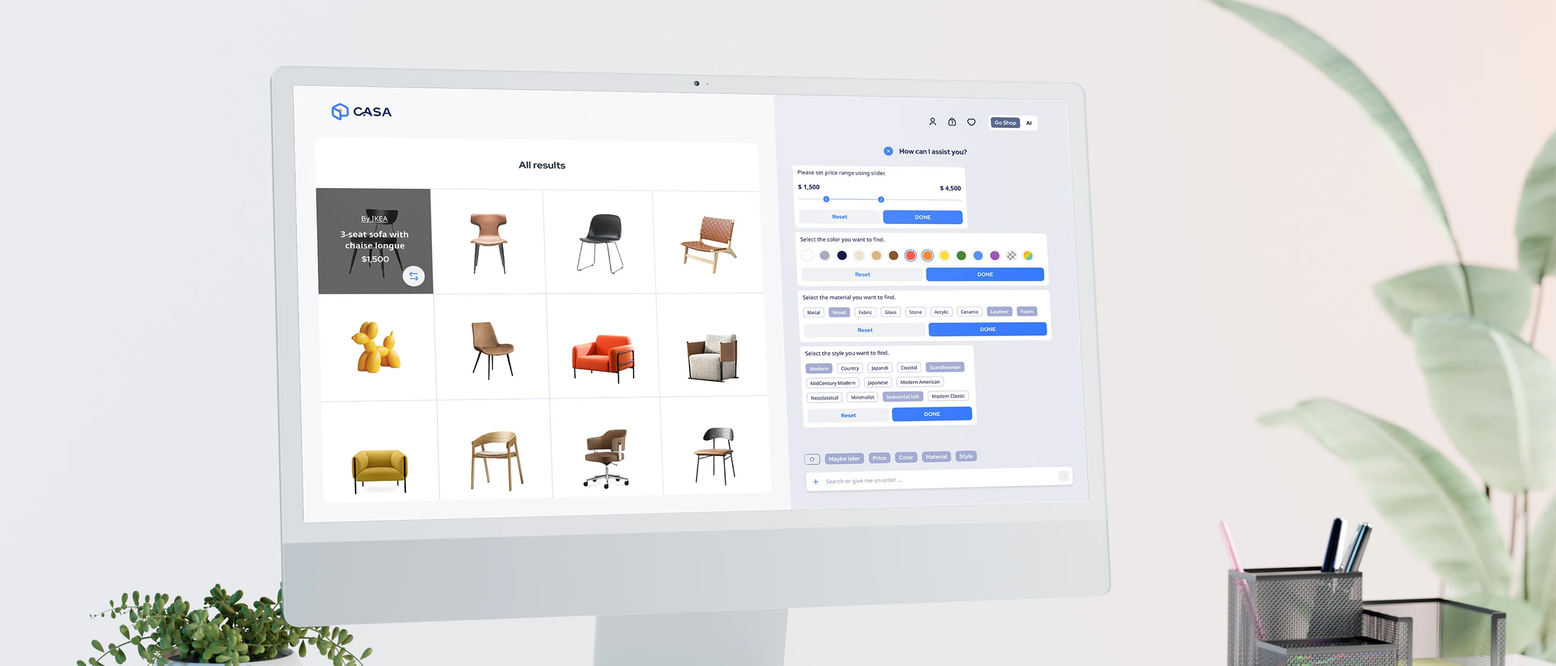
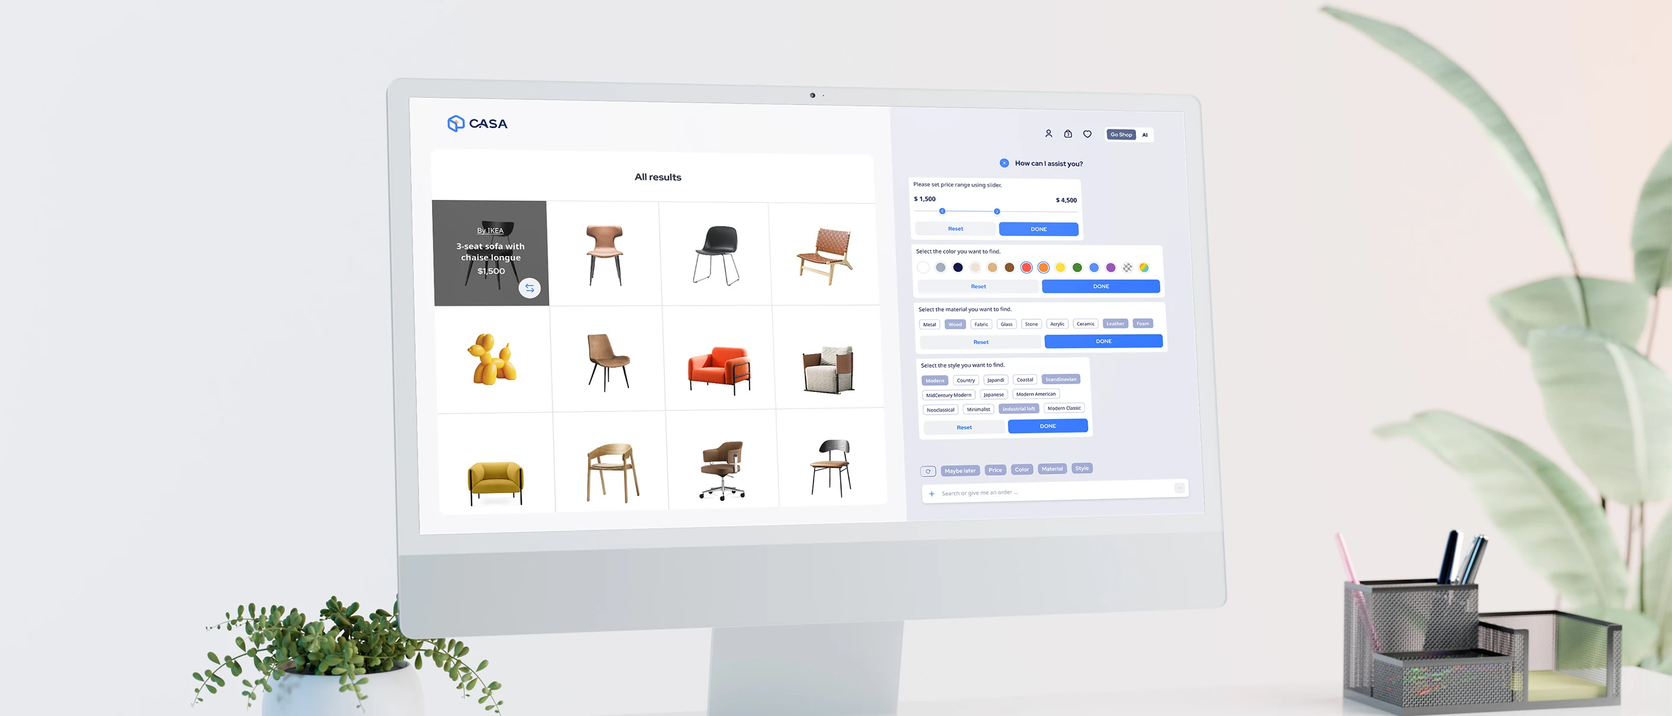
CASA UI/UX: 橫幅放大倍率降到 1.07

diff --git a/zh/project/homee-casa-ui-ux/index.html b/zh/project/homee-casa-ui-ux/index.html
@@ -301,7 +301,7 @@ margin: 0rem !important;
   
     lastScrollY = currentScrollY;
   });
-</script></div></div><main style="opacity:0" class="main-wrapper"><div class="section_hero"><div class="padding-global padding-section-large"><div class="container-medium"><div class="work-hero-content"><div class="work-hero-category text-style-badge">介面與體驗設計</div><h1 class="work-hero-title">HOMEE CASA</h1><div class="work-hero-category text-style-badge opacity-none">介面與體驗設計</div></div></div></div></div><div data-w-id="bad67926-d71c-7f70-edf2-d4c0cb5d8958" class="section_hero_after"><div class="hero_after_img xp-ph" style="aspect-ratio:3024/1898;" role="img" aria-label="Hero 情境圖（建議 3024×1898）"><span>Hero 情境圖（建議 3024×1898）</span></div></div><div class="section_top_small"><div class="padding-global padding-section-small"><div class="container-x-large"><div class="work-sub"><h2 class="heading-style-h1 text-align-center">把空間設計，<span class="white-space">變成一場對話</span></h2><div class="spacer-large"></div><div class="work-sub-content column hide-mobile-landscape"><h3 class="hide">HOMEE CASA is a Generative AI home design platform that unites Scene Understanding and a Designer Platform.</h3><p class="text-size-large text-align-center">HOMEE CASA 結合生成式 AI 與場景理解，讓使用者說出想要的風格，就能在自己的空間裡看到設計，並直接選購家具。</p></div><p class="work-sub-content-phone text-size-large text-align-center">HOMEE CASA 結合生成式 AI 與場景理解，讓使用者說出想要的風格，就能在自己的空間裡看到設計，並直接選購家具。</p></div></div><div class="spacer-xxlarge"></div><div class="container"><img data-nav="light" width="2630" height="1127" decoding="async" src="../../../assets/casa-ui-ux/casa_ui_ux_imac_banner.webp" loading="lazy" alt="書桌上的 iMac 顯示 HOMEE CASA 商品搜尋與 AI 篩選畫面" class="img-full" style="aspect-ratio:2800/1200;object-fit:cover"/></div></div></div><div class="section"><div class="padding-global padding-section-small"><div class="container-x-large"><div class="work_content_row"><div class="work_content_row-title"><div class="heading-style-h2 phone-text-align-center">問題</div></div><div class="work_content_row-sub hide-mobile-landscape"><p class="text-size-large">居家設計向來被當成專業的事：<br/><span class="text-weight-medium">一般人很難把腦中的風格，變成真的擺得進家裡的方案。</span>靈感、設計與購買分散在不同地方，使用者得不斷來回切換。</p></div><div class="show-mobile-landscape"><p class="text-size-large text-align-center">一般人很難把腦中的風格，變成擺得進家裡的方案，還得在靈感、設計與購買之間來回切換。</p></div></div><div class="spacer-xlarge"></div><div class="work_content_row"><div class="work_content_row-title"><div class="heading-style-h2 phone-text-align-center">解決方案</div></div><div class="work_content_row-sub hide-mobile-landscape"><p class="text-size-large"><span class="text-weight-medium">用一位 AI 設計師，串起整段旅程：</span><br/>先用圖卡測驗認識你的風格，再在你的空間裡生成多種設計，最後把方案中的家具變成可選購商品。</p></div><div class="show-mobile-landscape"><p class="text-size-large text-align-center">先認識你的風格，再在你的空間裡生成設計，最後把方案中的家具直接加入購物車。</p></div></div><div class="spacer-xxlarge"></div><div class="work-intro-img scroll-move"><img width="2400" height="1600" decoding="async" src="../../../assets/casa-ui-ux/casa_ui_ux_scene.webp" loading="lazy" alt="木質曲面家具上的 HOMEE CASA 手機商品分類畫面" class="scroll-move-img"/></div><div class="spacer-xxlarge"></div><div class="work_content_row"><div class="work_content_row-title"><div class="heading-style-h2 phone-text-align-center">目標</div></div><div class="work_content_row-sub hide-mobile-landscape"><p class="text-size-large"><span class="text-weight-medium">讓不懂設計的人，也能自在地設計自己的家：</span><br/>降低開始的門檻、讓設計建立在真實掃描的空間上，並讓每個方案都買得到、放得進去。</p></div><div class="show-mobile-landscape"><p class="text-size-large text-align-center">降低開始的門檻、讓設計建立在真實空間上，並讓每個方案都買得到、放得進去。</p></div></div><div class="spacer-xlarge"></div><div class="work_content_row"><div class="work_content_row-title"><div class="heading-style-h2 phone-text-align-center">挑戰</div></div><div class="work_content_row-sub hide-mobile-landscape"><p class="text-size-large">生成式 AI 的結果充滿不確定性，我在介面上要在「讓使用者有掌控感」與「讓 AI 發揮」之間取得平衡；同時讓背後的空間掃描、AI 生成與商品資料，串成使用者感覺不到技術的順暢流程。</p></div><div class="show-mobile-landscape"><p class="text-size-large text-align-center">我要在掌控感與 AI 發揮之間取得平衡，並讓背後的技術順暢得讓人感覺不到。</p></div></div></div></div></div><div class="section"><div class="padding-global padding-section-small"><div class="work-intro-img youtube"><div style="padding-top:56.17021276595745%" class="w-embed-youtubevideo youtube-video"><iframe src="https://www.youtube.com/embed/fFgGfCAs-NA?rel=0&amp;controls=1&amp;autoplay=0&amp;mute=0&amp;start=0" frameBorder="0" style="position:absolute;left:0;top:0;width:100%;height:100%;pointer-events:auto" allow="autoplay; encrypted-media" allowfullscreen="" title="HOMEE CASA - Your Personal AI-Powered Spatial Designer"></iframe></div></div><p class="text-align-center" style="margin-top:1rem;font-size:.875rem;letter-spacing:.02em;color:var(--color--body);opacity:.6">產品形象影片｜企劃與腳本</p></div></div><div class="section"><div class="padding-global padding-section-small"><div class="container-x-large"><div class="homee_app_work-grid xp-split"><div class="xp-split-text"><div class="heading-style-h2 phone-text-align-center">介面設計</div><div class="spacer-xxsmall"></div><p class="text-size-large hide-mobile-landscape">我用柔和漸層、圓角卡片與藍色主色，搭配一點橘色星形點綴，把 AI 的科技感做得親切；桌機與手機維持同一套互動邏輯。</p><p class="text-size-large text-align-center show-mobile-landscape">我用柔和漸層、圓角卡片與藍色主色，讓桌機與手機維持同一套互動邏輯。</p></div><div class="grid-img xp-ph" style="aspect-ratio:1/1;" role="img" aria-label="介面圖（建議方形或直式）"><span>介面圖（建議方形或直式）</span></div></div></div></div></div><div class="section"><div class="spacer-large"></div><div class="img-full radius-0 xp-ph" style="aspect-ratio:3026/1702;" role="img" aria-label="使用者動線／系統流程圖（建議 3026×1702）"><span>使用者動線／系統流程圖（建議 3026×1702）</span></div><div class="spacer-large"></div></div><div class="section"><div class="padding-global padding-section-small"><div class="container-x-large"><div class="work-sub"><div class="heading-style-h2 text-align-center">風格測驗</div><div class="spacer-xsmall"></div><div class="work-sub-content column hide-mobile-landscape"><p class="text-size-large text-align-center text-weight-medium">我先讓 AI 認識使用者，而不是先丟給他們一個空白的輸入框：</p><div class="spacer-xxsmall"></div><p class="text-size-large text-align-center">用圖卡快速收集風格偏好，結果頁標出最適合的風格與相近風格，再帶進 AI 設計師。</p></div><p class="work-sub-content-phone text-size-large text-align-center">用圖卡快速收集風格偏好，結果頁標出最適合的風格與相近風格，再帶進 AI 設計師。</p></div></div></div></div><div class="section"><div class="padding-global padding-section-small"><div class="container-default"><div class="macbook-frame"><img width="2856" height="1630" decoding="async" src="../../../assets/cdn.prod.website-files.com/6981d8e9960b31c1ce5dbbff/69f72ee53aea82102c8c1066_macbook.png" loading="lazy" sizes="(max-width: 2856px) 100vw, 2856px" srcset="../../../assets/cdn.prod.website-files.com/6981d8e9960b31c1ce5dbbff/69f72ee53aea82102c8c1066_macbook-p-500.png 500w, ../../../assets/cdn.prod.website-files.com/6981d8e9960b31c1ce5dbbff/69f72ee53aea82102c8c1066_macbook-p-800.png 800w, ../../../assets/cdn.prod.website-files.com/6981d8e9960b31c1ce5dbbff/69f72ee53aea82102c8c1066_macbook-p-1080.png 1080w, ../../../assets/cdn.prod.website-files.com/6981d8e9960b31c1ce5dbbff/69f72ee53aea82102c8c1066_macbook-p-1600.png 1600w, ../../../assets/cdn.prod.website-files.com/6981d8e9960b31c1ce5dbbff/69f72ee53aea82102c8c1066_macbook-p-2000.png 2000w, ../../../assets/cdn.prod.website-files.com/6981d8e9960b31c1ce5dbbff/69f72ee53aea82102c8c1066_macbook-p-2600.png 2600w, ../../../assets/cdn.prod.website-files.com/6981d8e9960b31c1ce5dbbff/69f72ee53aea82102c8c1066_macbook.png 2856w" alt="" class="macbook"/><div class="macbook_video w-embed w-script"><div style="width:100%;height:100%;background-image:url('../../../assets/casa-ui-ux/casa_ui_ux_quiz_poster.jpg');background-position:center center;background-repeat:no-repeat;background-size:cover" class="w-background-video w-background-video-atom"><video id="casa_quiz" muted loop playsinline preload="none" poster="../../../assets/casa-ui-ux/casa_ui_ux_quiz_poster.jpg" aria-label="HOMEE CASA 風格測驗與空間掃描的操作錄影" style="width:100%;height:100%;object-fit:cover;z-index:1"><source src="../../../assets/casa-ui-ux/casa_ui_ux_quiz.mp4" type="video/mp4"/></video><script>(function(){var v=document.getElementById("casa_quiz");if(!v)return;function go(){var p=v.play();if(p&&p.catch)p.catch(function(){})}if("IntersectionObserver"in window){new IntersectionObserver(function(es){es.forEach(function(e){if(e.isIntersecting)go();else v.pause()})},{threshold:0.25}).observe(v)}else{document.addEventListener("DOMContentLoaded",function(){setTimeout(go,300)})}})();</script></div></div></div></div></div><div class="section"><div class="padding-global padding-section-small"><div class="container-x-large"><div class="work-sub"><div class="heading-style-h2 text-align-center">從生成到結帳</div><div class="spacer-xsmall"></div><div class="work-sub-content column hide-mobile-landscape"><p class="text-size-large text-align-center">設計就發生在使用者真實掃描的空間裡：一句話開始，AI 一次生成多個方案，點選縮圖，主畫面即時切換，方便比較。想換掉某件家具，只要說一聲：AI 先把舊家具從空間移除，再依你說的風格與預算推薦商品，選好就放進畫面裡。商品有 3D 模型與標註尺寸，確認放得進家裡後，一次勾選多件商品結帳。</p></div><p class="work-sub-content-phone text-size-large text-align-center">一句話開始，AI 在真實空間裡一次生成多個方案，點選縮圖即時切換；想換家具，說一聲就能移除舊的、依風格與預算推薦新的並放進空間；商品有 3D 模型與標註尺寸，確認放得進家裡後一次結帳。</p></div></div><div class="spacer-xxlarge"></div><div class="container"><div class="homee_app_solutions-grid"><video class="grid-img" data-xp-play muted loop playsinline preload="none" poster="../../../assets/casa-ui-ux/casa_ui_ux_chat_poster.jpg" aria-label="用 AI 對話移除沙發與茶几，並挑選新沙發放進空間的操作錄影" style="display:block;width:100%;aspect-ratio:2560/1662;border-radius:var(--radius--default)"><source src="../../../assets/casa-ui-ux/casa_ui_ux_chat.mp4" type="video/mp4"></video><div class="casa-side"><img width="1400" height="1600" decoding="async" src="../../../assets/casa-ui-ux/casa_ui_ux_cart.webp" loading="lazy" alt="HOMEE CASA 手機版購物車與結帳畫面（依商店分組、一次勾選多件商品）"/></div><div class="img-full xp-ph" style="aspect-ratio:2864/1440;grid-column:1/-1" role="img" aria-label="最後滿版圖（建議 2864×1440）"><span>最後滿版圖（建議 2864×1440）</span></div></div></div></div></div><div data-w-id="bad67926-d71c-7f70-edf2-d4c0cb5d899a" class="section_work_footer_next"><div class="section_hero_footer"><div class="padding-global padding-section-large"><div class="container-x-large"><div class="work_footer_next"><div class="next_progress_bar left"><div class="next_progress"></div></div><div class="container-medium"><div class="work-hero-content"><div class="work-hero-category text-style-badge">下一個作品</div><h1 class="work-hero-title">Xplorer</h1><div class="work-hero-category text-style-badge transform-down">繼續往下滑</div></div></div><div class="next_progress_bar right"><div class="next_progress"></div></div></div></div></div></div><a href="../xplorer-ui-ux/" class="auto-nav-link">下一個作品</a></div></main></div><script src="https://d3e54v103j8qbb.cloudfront.net/js/jquery-3.5.1.min.dc5e7f18c8.js?site=6981d8e9960b31c1ce5dbbff" type="text/javascript" integrity="sha256-9/aliU8dGd2tb6OSsuzixeV4y/faTqgFtohetphbbj0=" crossorigin="anonymous"></script><script src="../../../assets/cdn.prod.website-files.com/6981d8e9960b31c1ce5dbbff/js/webflow.schunk.f2efb3c5440a81cf.js" type="text/javascript"></script><script src="../../../assets/cdn.prod.website-files.com/6981d8e9960b31c1ce5dbbff/js/webflow.schunk.b94bbdd3b1e45626.js" type="text/javascript"></script><script src="../../../assets/cdn.prod.website-files.com/6981d8e9960b31c1ce5dbbff/js/webflow.schunk.4423fc1f17c2ae72.js" type="text/javascript"></script><script src="../../../assets/cdn.prod.website-files.com/6981d8e9960b31c1ce5dbbff/js/webflow.0ef7faa1.88f4f06b544e52bd.js" type="text/javascript"></script><!-- Smooth Scrolling -->
+</script></div></div><main style="opacity:0" class="main-wrapper"><div class="section_hero"><div class="padding-global padding-section-large"><div class="container-medium"><div class="work-hero-content"><div class="work-hero-category text-style-badge">介面與體驗設計</div><h1 class="work-hero-title">HOMEE CASA</h1><div class="work-hero-category text-style-badge opacity-none">介面與體驗設計</div></div></div></div></div><div data-w-id="bad67926-d71c-7f70-edf2-d4c0cb5d8958" class="section_hero_after"><div class="hero_after_img xp-ph" style="aspect-ratio:3024/1898;" role="img" aria-label="Hero 情境圖（建議 3024×1898）"><span>Hero 情境圖（建議 3024×1898）</span></div></div><div class="section_top_small"><div class="padding-global padding-section-small"><div class="container-x-large"><div class="work-sub"><h2 class="heading-style-h1 text-align-center">把空間設計，<span class="white-space">變成一場對話</span></h2><div class="spacer-large"></div><div class="work-sub-content column hide-mobile-landscape"><h3 class="hide">HOMEE CASA is a Generative AI home design platform that unites Scene Understanding and a Designer Platform.</h3><p class="text-size-large text-align-center">HOMEE CASA 結合生成式 AI 與場景理解，讓使用者說出想要的風格，就能在自己的空間裡看到設計，並直接選購家具。</p></div><p class="work-sub-content-phone text-size-large text-align-center">HOMEE CASA 結合生成式 AI 與場景理解，讓使用者說出想要的風格，就能在自己的空間裡看到設計，並直接選購家具。</p></div></div><div class="spacer-xxlarge"></div><div class="container"><img data-nav="light" width="2826" height="1211" decoding="async" src="../../../assets/casa-ui-ux/casa_ui_ux_imac_banner.webp" loading="lazy" alt="書桌上的 iMac 顯示 HOMEE CASA 商品搜尋與 AI 篩選畫面" class="img-full" style="aspect-ratio:2800/1200;object-fit:cover"/></div></div></div><div class="section"><div class="padding-global padding-section-small"><div class="container-x-large"><div class="work_content_row"><div class="work_content_row-title"><div class="heading-style-h2 phone-text-align-center">問題</div></div><div class="work_content_row-sub hide-mobile-landscape"><p class="text-size-large">居家設計向來被當成專業的事：<br/><span class="text-weight-medium">一般人很難把腦中的風格，變成真的擺得進家裡的方案。</span>靈感、設計與購買分散在不同地方，使用者得不斷來回切換。</p></div><div class="show-mobile-landscape"><p class="text-size-large text-align-center">一般人很難把腦中的風格，變成擺得進家裡的方案，還得在靈感、設計與購買之間來回切換。</p></div></div><div class="spacer-xlarge"></div><div class="work_content_row"><div class="work_content_row-title"><div class="heading-style-h2 phone-text-align-center">解決方案</div></div><div class="work_content_row-sub hide-mobile-landscape"><p class="text-size-large"><span class="text-weight-medium">用一位 AI 設計師，串起整段旅程：</span><br/>先用圖卡測驗認識你的風格，再在你的空間裡生成多種設計，最後把方案中的家具變成可選購商品。</p></div><div class="show-mobile-landscape"><p class="text-size-large text-align-center">先認識你的風格，再在你的空間裡生成設計，最後把方案中的家具直接加入購物車。</p></div></div><div class="spacer-xxlarge"></div><div class="work-intro-img scroll-move"><img width="2400" height="1600" decoding="async" src="../../../assets/casa-ui-ux/casa_ui_ux_scene.webp" loading="lazy" alt="木質曲面家具上的 HOMEE CASA 手機商品分類畫面" class="scroll-move-img"/></div><div class="spacer-xxlarge"></div><div class="work_content_row"><div class="work_content_row-title"><div class="heading-style-h2 phone-text-align-center">目標</div></div><div class="work_content_row-sub hide-mobile-landscape"><p class="text-size-large"><span class="text-weight-medium">讓不懂設計的人，也能自在地設計自己的家：</span><br/>降低開始的門檻、讓設計建立在真實掃描的空間上，並讓每個方案都買得到、放得進去。</p></div><div class="show-mobile-landscape"><p class="text-size-large text-align-center">降低開始的門檻、讓設計建立在真實空間上，並讓每個方案都買得到、放得進去。</p></div></div><div class="spacer-xlarge"></div><div class="work_content_row"><div class="work_content_row-title"><div class="heading-style-h2 phone-text-align-center">挑戰</div></div><div class="work_content_row-sub hide-mobile-landscape"><p class="text-size-large">生成式 AI 的結果充滿不確定性，我在介面上要在「讓使用者有掌控感」與「讓 AI 發揮」之間取得平衡；同時讓背後的空間掃描、AI 生成與商品資料，串成使用者感覺不到技術的順暢流程。</p></div><div class="show-mobile-landscape"><p class="text-size-large text-align-center">我要在掌控感與 AI 發揮之間取得平衡，並讓背後的技術順暢得讓人感覺不到。</p></div></div></div></div></div><div class="section"><div class="padding-global padding-section-small"><div class="work-intro-img youtube"><div style="padding-top:56.17021276595745%" class="w-embed-youtubevideo youtube-video"><iframe src="https://www.youtube.com/embed/fFgGfCAs-NA?rel=0&amp;controls=1&amp;autoplay=0&amp;mute=0&amp;start=0" frameBorder="0" style="position:absolute;left:0;top:0;width:100%;height:100%;pointer-events:auto" allow="autoplay; encrypted-media" allowfullscreen="" title="HOMEE CASA - Your Personal AI-Powered Spatial Designer"></iframe></div></div><p class="text-align-center" style="margin-top:1rem;font-size:.875rem;letter-spacing:.02em;color:var(--color--body);opacity:.6">產品形象影片｜企劃與腳本</p></div></div><div class="section"><div class="padding-global padding-section-small"><div class="container-x-large"><div class="homee_app_work-grid xp-split"><div class="xp-split-text"><div class="heading-style-h2 phone-text-align-center">介面設計</div><div class="spacer-xxsmall"></div><p class="text-size-large hide-mobile-landscape">我用柔和漸層、圓角卡片與藍色主色，搭配一點橘色星形點綴，把 AI 的科技感做得親切；桌機與手機維持同一套互動邏輯。</p><p class="text-size-large text-align-center show-mobile-landscape">我用柔和漸層、圓角卡片與藍色主色，讓桌機與手機維持同一套互動邏輯。</p></div><div class="grid-img xp-ph" style="aspect-ratio:1/1;" role="img" aria-label="介面圖（建議方形或直式）"><span>介面圖（建議方形或直式）</span></div></div></div></div></div><div class="section"><div class="spacer-large"></div><div class="img-full radius-0 xp-ph" style="aspect-ratio:3026/1702;" role="img" aria-label="使用者動線／系統流程圖（建議 3026×1702）"><span>使用者動線／系統流程圖（建議 3026×1702）</span></div><div class="spacer-large"></div></div><div class="section"><div class="padding-global padding-section-small"><div class="container-x-large"><div class="work-sub"><div class="heading-style-h2 text-align-center">風格測驗</div><div class="spacer-xsmall"></div><div class="work-sub-content column hide-mobile-landscape"><p class="text-size-large text-align-center text-weight-medium">我先讓 AI 認識使用者，而不是先丟給他們一個空白的輸入框：</p><div class="spacer-xxsmall"></div><p class="text-size-large text-align-center">用圖卡快速收集風格偏好，結果頁標出最適合的風格與相近風格，再帶進 AI 設計師。</p></div><p class="work-sub-content-phone text-size-large text-align-center">用圖卡快速收集風格偏好，結果頁標出最適合的風格與相近風格，再帶進 AI 設計師。</p></div></div></div></div><div class="section"><div class="padding-global padding-section-small"><div class="container-default"><div class="macbook-frame"><img width="2856" height="1630" decoding="async" src="../../../assets/cdn.prod.website-files.com/6981d8e9960b31c1ce5dbbff/69f72ee53aea82102c8c1066_macbook.png" loading="lazy" sizes="(max-width: 2856px) 100vw, 2856px" srcset="../../../assets/cdn.prod.website-files.com/6981d8e9960b31c1ce5dbbff/69f72ee53aea82102c8c1066_macbook-p-500.png 500w, ../../../assets/cdn.prod.website-files.com/6981d8e9960b31c1ce5dbbff/69f72ee53aea82102c8c1066_macbook-p-800.png 800w, ../../../assets/cdn.prod.website-files.com/6981d8e9960b31c1ce5dbbff/69f72ee53aea82102c8c1066_macbook-p-1080.png 1080w, ../../../assets/cdn.prod.website-files.com/6981d8e9960b31c1ce5dbbff/69f72ee53aea82102c8c1066_macbook-p-1600.png 1600w, ../../../assets/cdn.prod.website-files.com/6981d8e9960b31c1ce5dbbff/69f72ee53aea82102c8c1066_macbook-p-2000.png 2000w, ../../../assets/cdn.prod.website-files.com/6981d8e9960b31c1ce5dbbff/69f72ee53aea82102c8c1066_macbook-p-2600.png 2600w, ../../../assets/cdn.prod.website-files.com/6981d8e9960b31c1ce5dbbff/69f72ee53aea82102c8c1066_macbook.png 2856w" alt="" class="macbook"/><div class="macbook_video w-embed w-script"><div style="width:100%;height:100%;background-image:url('../../../assets/casa-ui-ux/casa_ui_ux_quiz_poster.jpg');background-position:center center;background-repeat:no-repeat;background-size:cover" class="w-background-video w-background-video-atom"><video id="casa_quiz" muted loop playsinline preload="none" poster="../../../assets/casa-ui-ux/casa_ui_ux_quiz_poster.jpg" aria-label="HOMEE CASA 風格測驗與空間掃描的操作錄影" style="width:100%;height:100%;object-fit:cover;z-index:1"><source src="../../../assets/casa-ui-ux/casa_ui_ux_quiz.mp4" type="video/mp4"/></video><script>(function(){var v=document.getElementById("casa_quiz");if(!v)return;function go(){var p=v.play();if(p&&p.catch)p.catch(function(){})}if("IntersectionObserver"in window){new IntersectionObserver(function(es){es.forEach(function(e){if(e.isIntersecting)go();else v.pause()})},{threshold:0.25}).observe(v)}else{document.addEventListener("DOMContentLoaded",function(){setTimeout(go,300)})}})();</script></div></div></div></div></div><div class="section"><div class="padding-global padding-section-small"><div class="container-x-large"><div class="work-sub"><div class="heading-style-h2 text-align-center">從生成到結帳</div><div class="spacer-xsmall"></div><div class="work-sub-content column hide-mobile-landscape"><p class="text-size-large text-align-center">設計就發生在使用者真實掃描的空間裡：一句話開始，AI 一次生成多個方案，點選縮圖，主畫面即時切換，方便比較。想換掉某件家具，只要說一聲：AI 先把舊家具從空間移除，再依你說的風格與預算推薦商品，選好就放進畫面裡。商品有 3D 模型與標註尺寸，確認放得進家裡後，一次勾選多件商品結帳。</p></div><p class="work-sub-content-phone text-size-large text-align-center">一句話開始，AI 在真實空間裡一次生成多個方案，點選縮圖即時切換；想換家具，說一聲就能移除舊的、依風格與預算推薦新的並放進空間；商品有 3D 模型與標註尺寸，確認放得進家裡後一次結帳。</p></div></div><div class="spacer-xxlarge"></div><div class="container"><div class="homee_app_solutions-grid"><video class="grid-img" data-xp-play muted loop playsinline preload="none" poster="../../../assets/casa-ui-ux/casa_ui_ux_chat_poster.jpg" aria-label="用 AI 對話移除沙發與茶几，並挑選新沙發放進空間的操作錄影" style="display:block;width:100%;aspect-ratio:2560/1662;border-radius:var(--radius--default)"><source src="../../../assets/casa-ui-ux/casa_ui_ux_chat.mp4" type="video/mp4"></video><div class="casa-side"><img width="1400" height="1600" decoding="async" src="../../../assets/casa-ui-ux/casa_ui_ux_cart.webp" loading="lazy" alt="HOMEE CASA 手機版購物車與結帳畫面（依商店分組、一次勾選多件商品）"/></div><div class="img-full xp-ph" style="aspect-ratio:2864/1440;grid-column:1/-1" role="img" aria-label="最後滿版圖（建議 2864×1440）"><span>最後滿版圖（建議 2864×1440）</span></div></div></div></div></div><div data-w-id="bad67926-d71c-7f70-edf2-d4c0cb5d899a" class="section_work_footer_next"><div class="section_hero_footer"><div class="padding-global padding-section-large"><div class="container-x-large"><div class="work_footer_next"><div class="next_progress_bar left"><div class="next_progress"></div></div><div class="container-medium"><div class="work-hero-content"><div class="work-hero-category text-style-badge">下一個作品</div><h1 class="work-hero-title">Xplorer</h1><div class="work-hero-category text-style-badge transform-down">繼續往下滑</div></div></div><div class="next_progress_bar right"><div class="next_progress"></div></div></div></div></div></div><a href="../xplorer-ui-ux/" class="auto-nav-link">下一個作品</a></div></main></div><script src="https://d3e54v103j8qbb.cloudfront.net/js/jquery-3.5.1.min.dc5e7f18c8.js?site=6981d8e9960b31c1ce5dbbff" type="text/javascript" integrity="sha256-9/aliU8dGd2tb6OSsuzixeV4y/faTqgFtohetphbbj0=" crossorigin="anonymous"></script><script src="../../../assets/cdn.prod.website-files.com/6981d8e9960b31c1ce5dbbff/js/webflow.schunk.f2efb3c5440a81cf.js" type="text/javascript"></script><script src="../../../assets/cdn.prod.website-files.com/6981d8e9960b31c1ce5dbbff/js/webflow.schunk.b94bbdd3b1e45626.js" type="text/javascript"></script><script src="../../../assets/cdn.prod.website-files.com/6981d8e9960b31c1ce5dbbff/js/webflow.schunk.4423fc1f17c2ae72.js" type="text/javascript"></script><script src="../../../assets/cdn.prod.website-files.com/6981d8e9960b31c1ce5dbbff/js/webflow.0ef7faa1.88f4f06b544e52bd.js" type="text/javascript"></script><!-- Smooth Scrolling -->
 <script src="https://unpkg.com/lenis@1.3.21/dist/lenis.min.js"></script> 
 <script>
   // Initialize Lenis
